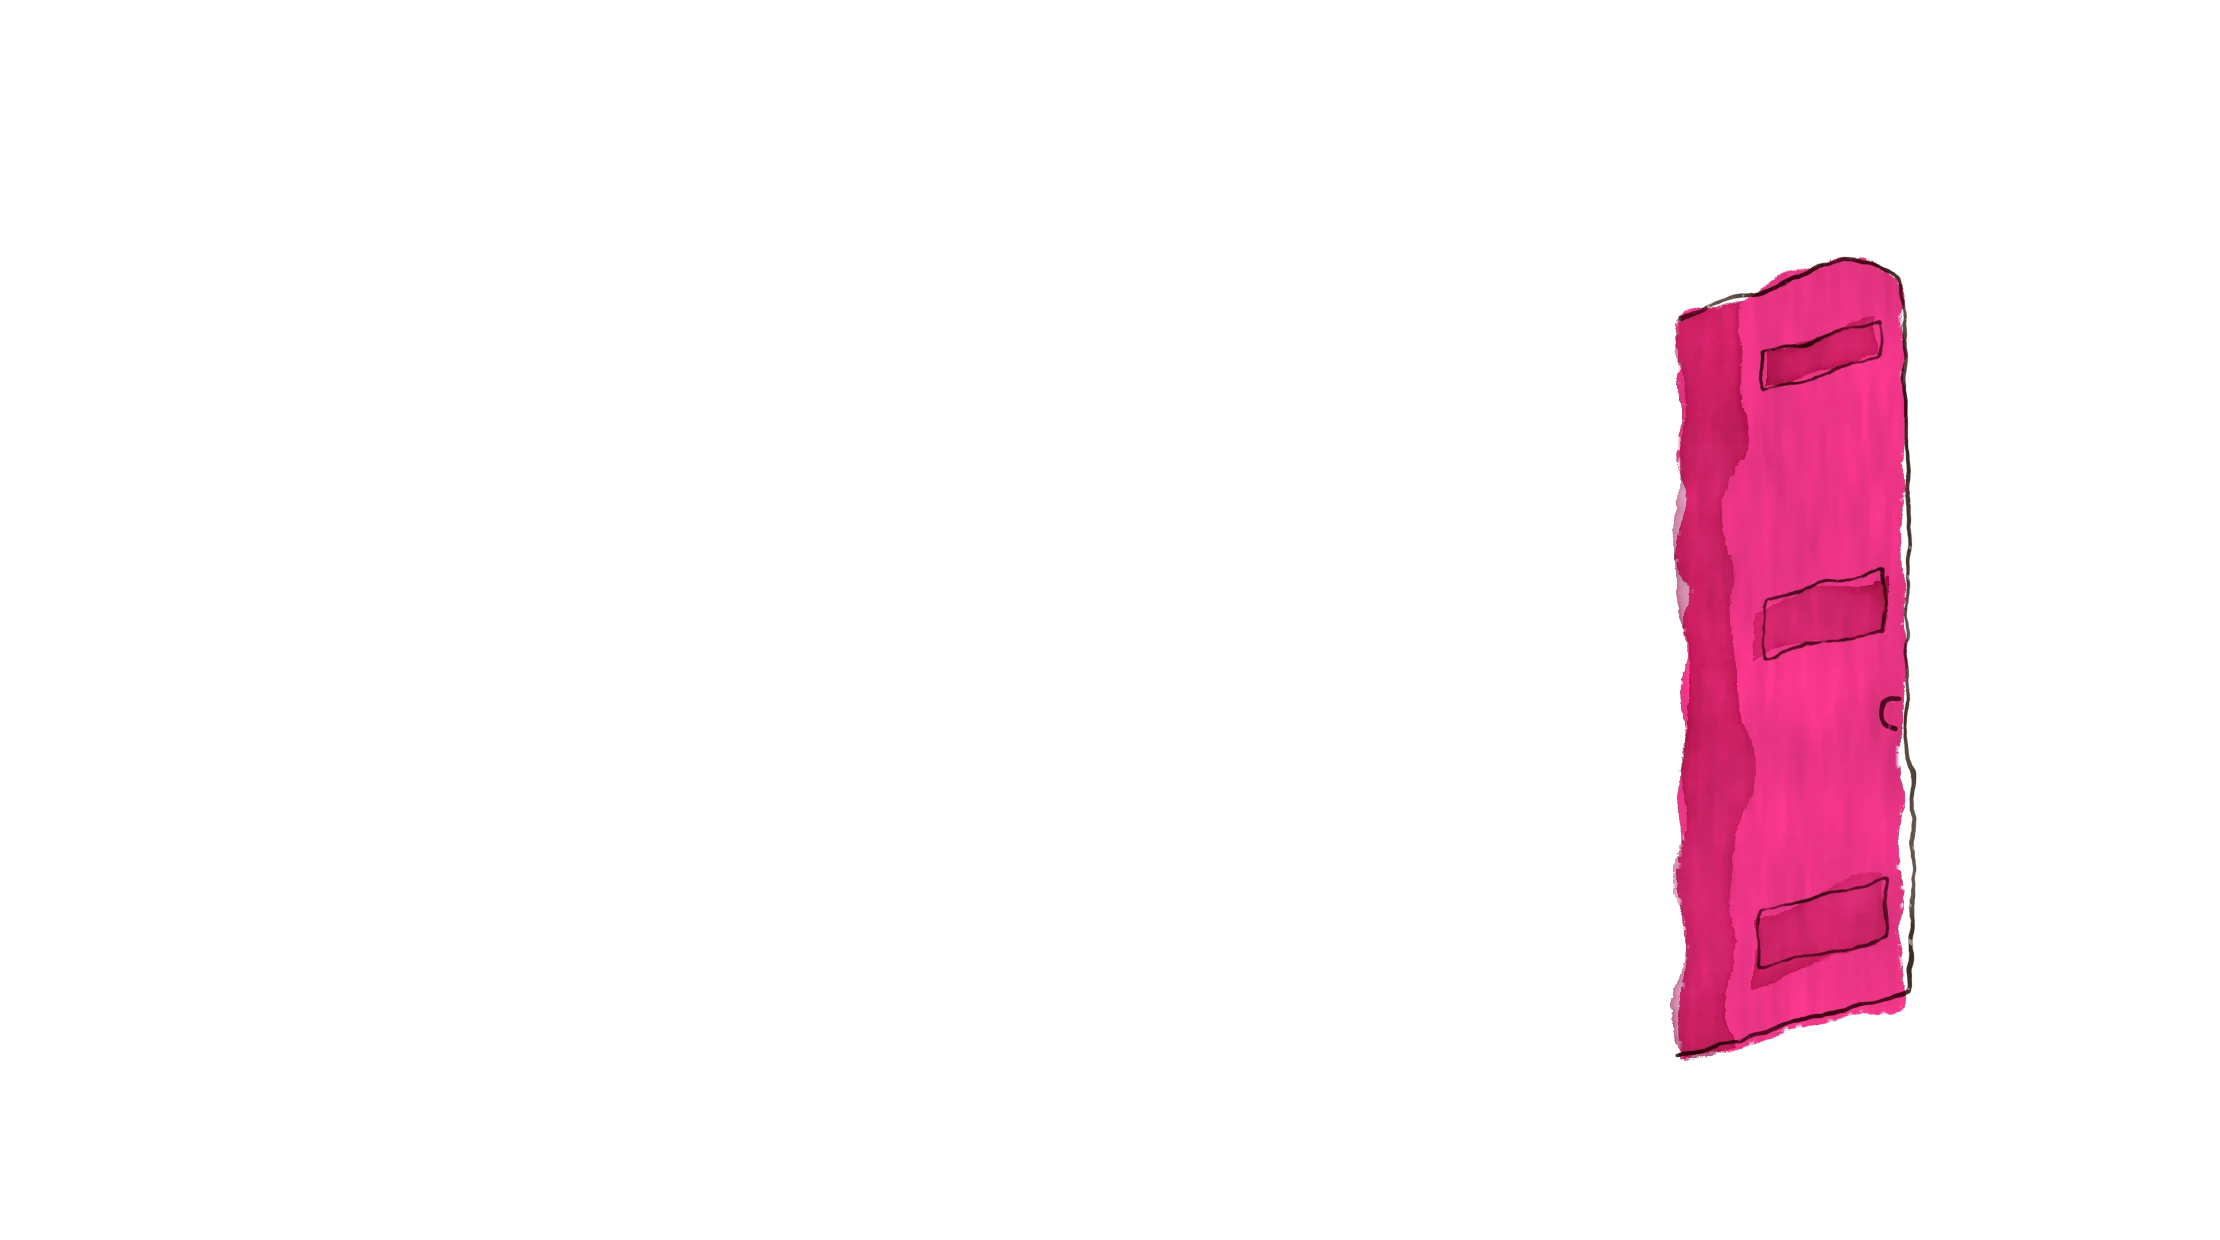
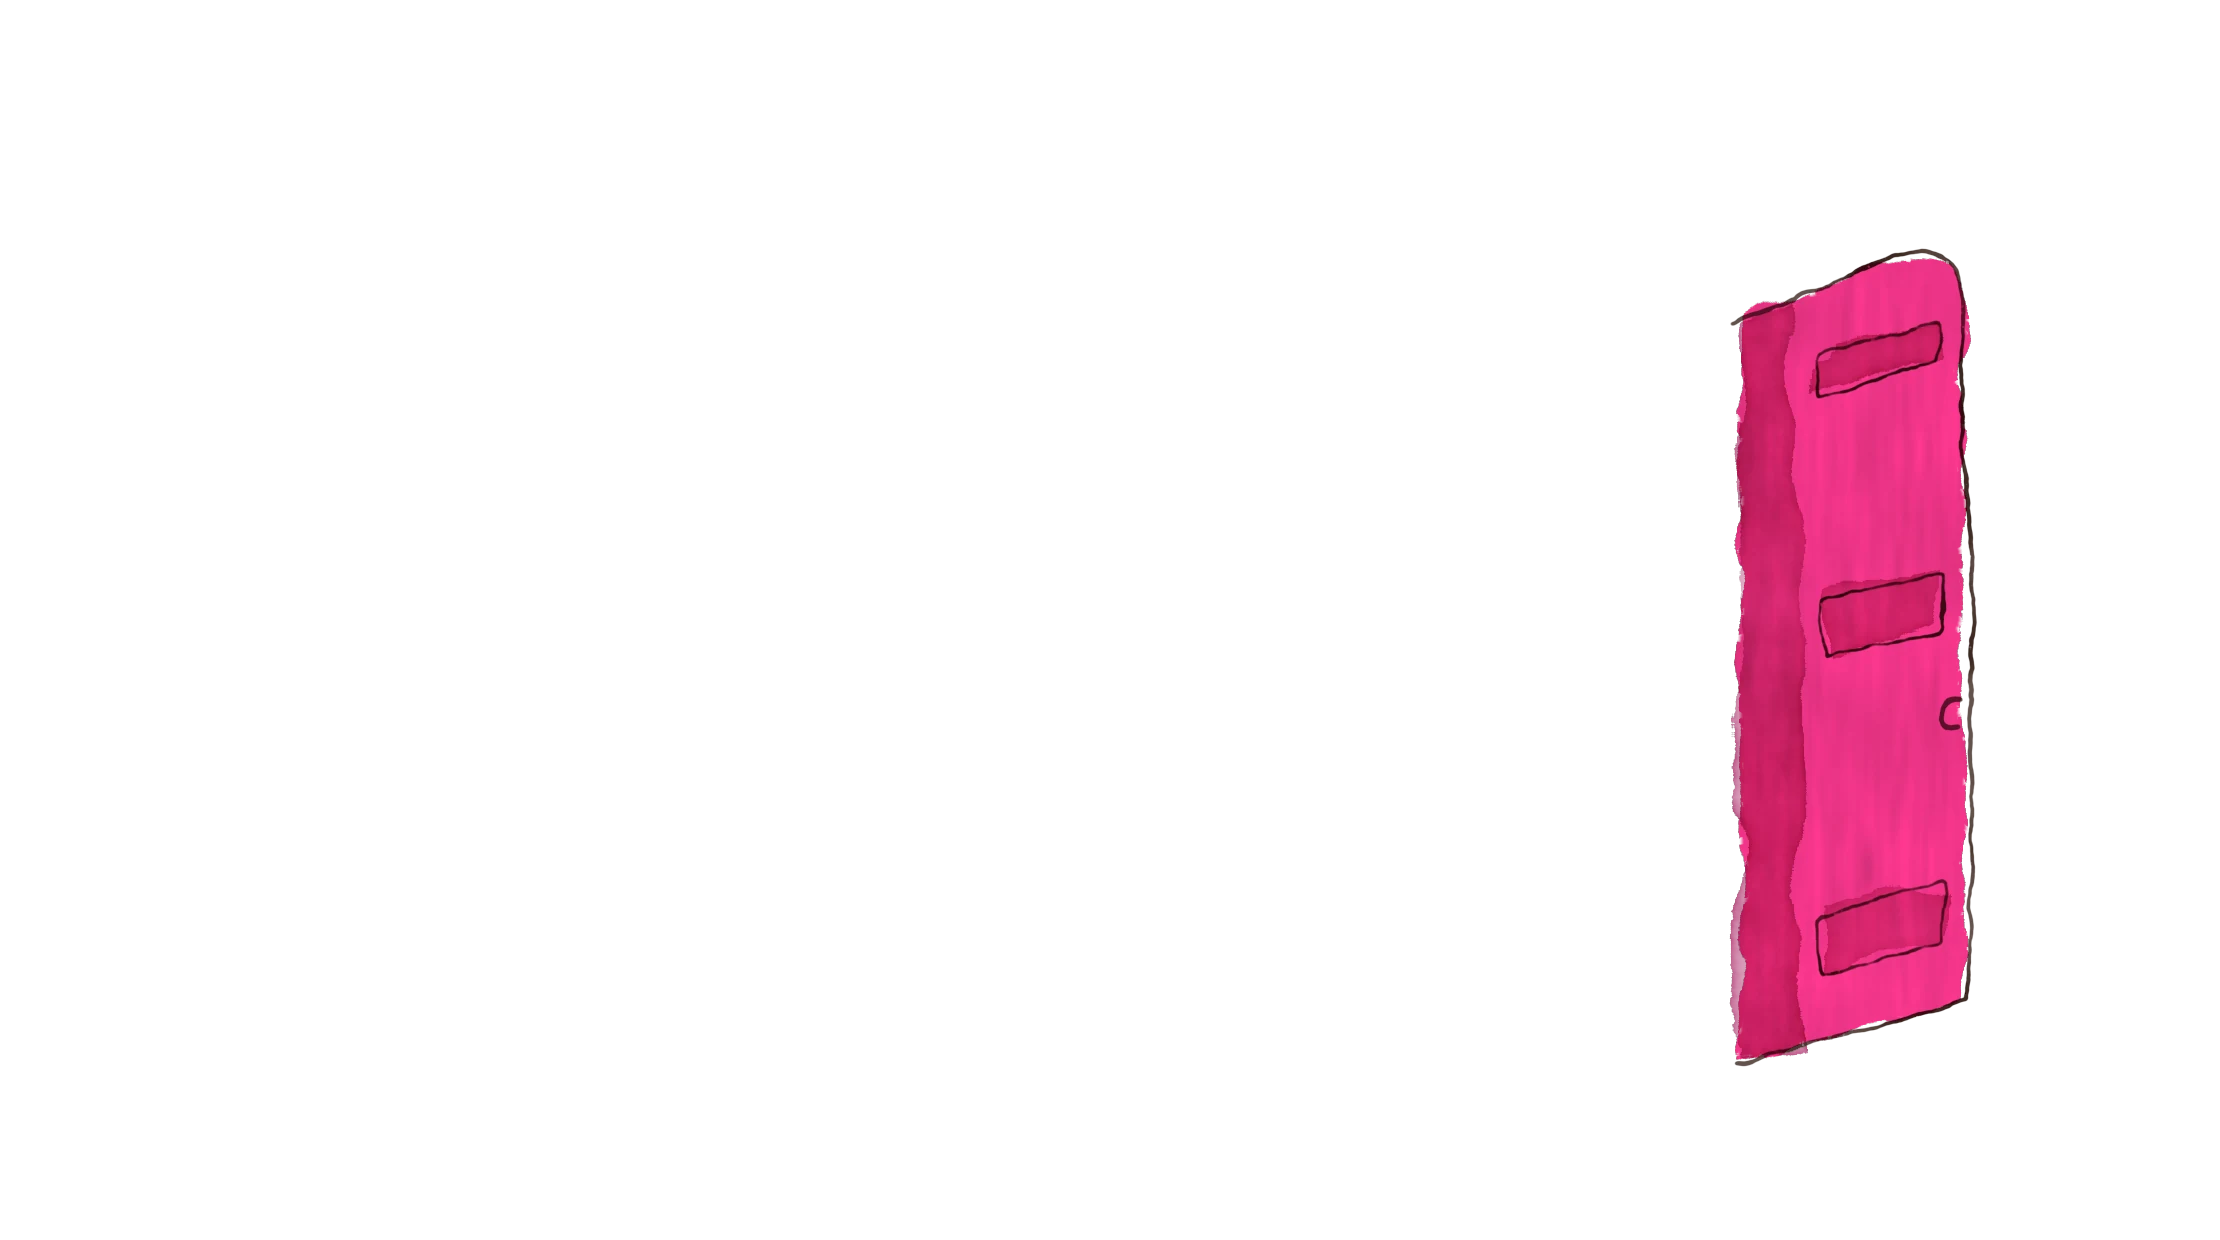
VIP door: wider opening, thinner posts, same rounded top; the video sits fully under the arch at 16:9; centred on phones

Changed region(s): [[0.7459, 0.1839, 0.9014, 0.8581]]

diff --git a/tools/paint/studio.html b/tools/paint/studio.html
@@ -442,8 +442,11 @@ svg[data-art]{background:transparent;display:block}
 <svg data-art="door" width="1110" height="620" viewBox="0 0 1110 620">
   <g data-mat="shadow" fill="#8E98AA" data-density=".5"><ellipse cx="555" cy="588" rx="470" ry="14"/></g>
   <g data-mat="gouache" data-angle="0" data-streak=".012"><path d="M96 560 V180 C96 100 190 50 320 50 H690 C820 50 914 100 914 180 V560 Z" fill="#FBF8F2"/></g>
-  <g data-mat="wash" fill="#D8CBB6" data-density=".7"><path d="M136 530 V200 C136 128 256 80 400 80 H610 C754 80 874 128 874 200 V530 H840 V210 C840 150 730 110 600 110 H410 C280 110 170 150 170 210 V530 Z"/></g>
-  <g data-mat="gouache" data-angle="0"><path d="M126 530 H884 L902 556 H108 Z" fill="#F1EADD"/><path d="M96 556 H914 L934 582 H76 Z" fill="#E7DDCB"/></g>
+  <g data-mat="wash" fill="#D8CBB6" data-density=".7"><path d="M114 530 V196 C114 126 230 88 378 88 H632 C780 88 896 126 896 196 V530 H870 V200 C870 146 770 112 630 112 H380 C240 112 140 146 140 200 V530 Z"/></g>
+  <!-- Nov 4 (Sean: "i want everything to be visible ... i like the curves"): a wider opening and thinner posts, the same rounded top; inside, a soft recess so the 16:9 video sits fully under the curve -->
+  <g data-mat="gouache" data-angle="0" data-streak=".01"><path d="M140 530 V200 C140 146 240 112 380 112 H630 C770 112 870 146 870 200 V530 Z" fill="#E4DACA"/></g>
+  <g data-mat="shadow" fill="#8E7E6A" data-density=".5"><path d="M140 200 C140 146 240 112 380 112 H630 C770 112 870 146 870 200 V230 C840 190 760 150 630 150 H380 C250 150 170 190 140 230 Z"/></g>
+  <g data-mat="gouache" data-angle="0"><path d="M110 530 H900 L914 556 H96 Z" fill="#F1EADD"/><path d="M96 556 H914 L934 582 H76 Z" fill="#E7DDCB"/></g>
   <g data-mat="wash" fill="#B7C0CC" data-density=".45"><path d="M108 556 H902 L906 562 H104 Z M76 582 H934 L936 588 H74 Z"/></g>
   <g data-mat="wash" fill="#C9614E" data-rim="2.6"><path d="M12 582 L28 506 H118 L134 582 Z"/><path d="M976 582 L992 506 H1082 L1098 582 Z"/></g>
   <g data-mat="wash" fill="#A9483A" data-density=".5"><path d="M24 520 H122 L120 528 H26 Z M988 520 H1086 L1084 528 H990 Z"/></g>
@@ -453,9 +456,9 @@ svg[data-art]{background:transparent;display:block}
   <g data-mat="wash" fill="#A8245E" data-rim="1.6" data-density=".55" id="heroBoug2"></g>
   <g data-mat="ink" stroke="#3A2A22" stroke-width="1.2" fill="none">
     <path d="M96 560 V180 C96 100 190 50 320 50 H690 C820 50 914 100 914 180 V560"/>
-    <path d="M170 530 V210 C170 150 280 110 410 110 H600 C730 110 840 150 840 210 V530"/>
-    <path d="M136 530 V200 C136 128 256 80 400 80 H610 C754 80 874 128 874 200 V530" stroke-width=".8"/>
-    <path d="M126 530 H884 L902 556 H108 Z M96 556 H914 L934 582 H76 Z"/>
+    <path d="M140 530 V200 C140 146 240 112 380 112 H630 C770 112 870 146 870 200 V530"/>
+    <path d="M114 530 V196 C114 126 230 88 378 88 H632 C780 88 896 126 896 196 V530" stroke-width=".8"/>
+    <path d="M110 530 H900 L914 556 H96 Z M96 556 H914 L934 582 H76 Z"/>
     <path d="M12 582 L28 506 H118 L134 582 Z M976 582 L992 506 H1082 L1098 582 Z"/>
   </g>
   <g data-mat="shadow" fill="#8E98AA" data-density=".6"><ellipse cx="508" cy="84" rx="78" ry="23"/></g>
@@ -467,21 +470,21 @@ svg[data-art]{background:transparent;display:block}
   <g data-mat="ink" stroke="#8A7A6E" stroke-width=".7" fill="none" data-density=".6"><path d="M42 250 h34 M36 330 h28 M50 420 h24 M960 260 h30 M968 420 h26 M380 26 h60 M660 30 h40"/></g>
 </svg>
 <svg data-art="door-leaf" width="1110" height="620" viewBox="0 0 1110 620">
-  <g data-mat="gouache" data-angle="90"><path d="M840 530 L952 500 V150 C952 132 934 124 916 130 L840 160 Z" fill="#EC3486"/></g>
-  <g data-mat="wash" fill="#A3155A" data-density=".55"><path d="M840 530 L868 522 V152 L840 160 Z"/><path d="M880 486 L940 470 V440 L880 456 Z M880 330 L940 314 V284 L880 300 Z M880 196 L940 180 V160 L880 176 Z"/></g>
+  <g data-mat="gouache" data-angle="90"><path d="M870 530 L982 500 V150 C982 132 964 124 946 130 L870 160 Z" fill="#EC3486"/></g>
+  <g data-mat="wash" fill="#A3155A" data-density=".55"><path d="M870 530 L898 522 V152 L870 160 Z"/><path d="M910 486 L970 470 V440 L910 456 Z M910 330 L970 314 V284 L910 300 Z M910 196 L970 180 V160 L910 176 Z"/></g>
 
   <g data-mat="ink" stroke="#3A2A22" stroke-width="1.2" fill="none">
-    <path d="M840 530 L952 500 V150 C952 132 934 124 916 130 L840 160"/>
-    <path d="M880 486 L940 470 V440 L880 456 Z M880 330 L940 314 V284 L880 300 Z M880 196 L940 180 V160 L880 176 Z" stroke-width=".8"/>
-    <path d="M944 350 c-8 0 -8 14 0 14" stroke-width="1.6"/>
+    <path d="M870 530 L982 500 V150 C982 132 964 124 946 130 L870 160"/>
+    <path d="M910 486 L970 470 V440 L910 456 Z M910 330 L970 314 V284 L910 300 Z M910 196 L970 180 V160 L910 176 Z" stroke-width=".8"/>
+    <path d="M974 350 c-8 0 -8 14 0 14" stroke-width="1.6"/>
   </g>
 </svg>
 <svg data-art="door-closed" width="1110" height="620" viewBox="0 0 1110 620">
-  <g data-mat="gouache" data-angle="90"><path d="M170 530 V210 C170 150 280 110 410 110 H600 C730 110 840 150 840 210 V530 Z" fill="#EC3486"/></g>
-  <g data-mat="wash" fill="#A3155A" data-density=".45"><path d="M250 230 H760 V340 H250 Z M250 370 H760 V500 H250 Z"/></g>
-  <g data-mat="gouache" fill="#F5C518"><circle cx="212" cy="380" r="10"/></g>
-  <g data-mat="ink" stroke="#3A2A22" stroke-width="1.2" fill="none"><path d="M170 530 V210 C170 150 280 110 410 110 H600 C730 110 840 150 840 210 V530 Z"/><path d="M250 230 H760 V340 H250 Z M250 370 H760 V500 H250 Z" stroke-width=".9"/><circle cx="212" cy="380" r="10"/></g>
-  <g data-mat="white" fill="none" stroke="#FFE3EF" stroke-width="2.6" stroke-linecap="round"><path d="M186 520 V230" /><path d="M520 140 v60" stroke-width="2"/></g>
+  <g data-mat="gouache" data-angle="90"><path d="M140 530 V200 C140 146 240 112 380 112 H630 C770 112 870 146 870 200 V530 Z" fill="#EC3486"/></g>
+  <g data-mat="wash" fill="#A3155A" data-density=".45"><path d="M230 230 H780 V340 H230 Z M230 370 H780 V500 H230 Z"/></g>
+  <g data-mat="gouache" fill="#F5C518"><circle cx="186" cy="380" r="10"/></g>
+  <g data-mat="ink" stroke="#3A2A22" stroke-width="1.2" fill="none"><path d="M140 530 V200 C140 146 240 112 380 112 H630 C770 112 870 146 870 200 V530 Z"/><path d="M230 230 H780 V340 H230 Z M230 370 H780 V500 H230 Z" stroke-width=".9"/><circle cx="186" cy="380" r="10"/></g>
+  <g data-mat="white" fill="none" stroke="#FFE3EF" stroke-width="2.6" stroke-linecap="round"><path d="M160 520 V230" /><path d="M520 140 v60" stroke-width="2"/></g>
 </svg>
 
 <svg data-art="mini-rev" width="160" height="200" viewBox="0 0 160 200">

diff --git a/vip/index.html b/vip/index.html
@@ -1100,7 +1100,9 @@ body{background:#F4ECDD var(--paper) 0 0/512px}
 /* hero: her door in Greece, the video in the opening */
 .door{position:relative;width:calc(100% + 110px);margin-left:-110px}
 .door-art{display:block;width:100%;height:auto;pointer-events:none}
-.door-v{position:absolute;left:15.315%;top:17.742%;width:60.36%;height:67.74%;overflow:hidden;border-radius:35.8% 35.8% 0 0 / 23.8% 23.8% 0 0}
+/* Nov 4 (Sean: "i want everything to be visible ... i like the curves"): the video sits fully under the arch, 16:9, so
+   nothing in it is cut; the arch keeps its rounded top above it */
+.door-v{position:absolute;left:15.766%;top:25.645%;width:59.459%;height:59.839%;overflow:hidden;border-radius:3px}
 .door-v:after{content:"";position:absolute;inset:0;pointer-events:none;box-shadow:inset 0 10px 18px -8px rgba(60,35,15,.45),inset 8px 0 14px -10px rgba(60,35,15,.35)}
 .door .scr{height:100%;aspect-ratio:auto;border-radius:0}
 .door .scr img.mk{display:none}
@@ -1243,7 +1245,7 @@ body{background:var(--page)}
 /* ---- hero: the door opens on her ---- */
 .door-leaf,.door-closed{position:absolute;inset:0;width:100%;height:auto;pointer-events:none}
 .door-leaf{opacity:0;animation:leafin .5s ease-out 1.75s forwards}
-.door-closed{transform-origin:75.68% 50%;animation:dswing 1.6s var(--swing) .55s forwards;z-index:2}
+.door-closed{transform-origin:78.38% 50%;animation:dswing 1.6s var(--swing) .55s forwards;z-index:2}
 @keyframes dswing{0%{transform:perspective(1600px) rotateY(0)}12%{transform:perspective(1600px) rotateY(4deg)}80%{opacity:1}100%{transform:perspective(1600px) rotateY(-84deg);opacity:0}}
 @keyframes leafin{from{opacity:0;transform:translateX(-1.2%) scaleX(.94)}to{opacity:1;transform:none}}
 .door .door-v .scr img{animation:warm 1.6s var(--glide) .9s both}
